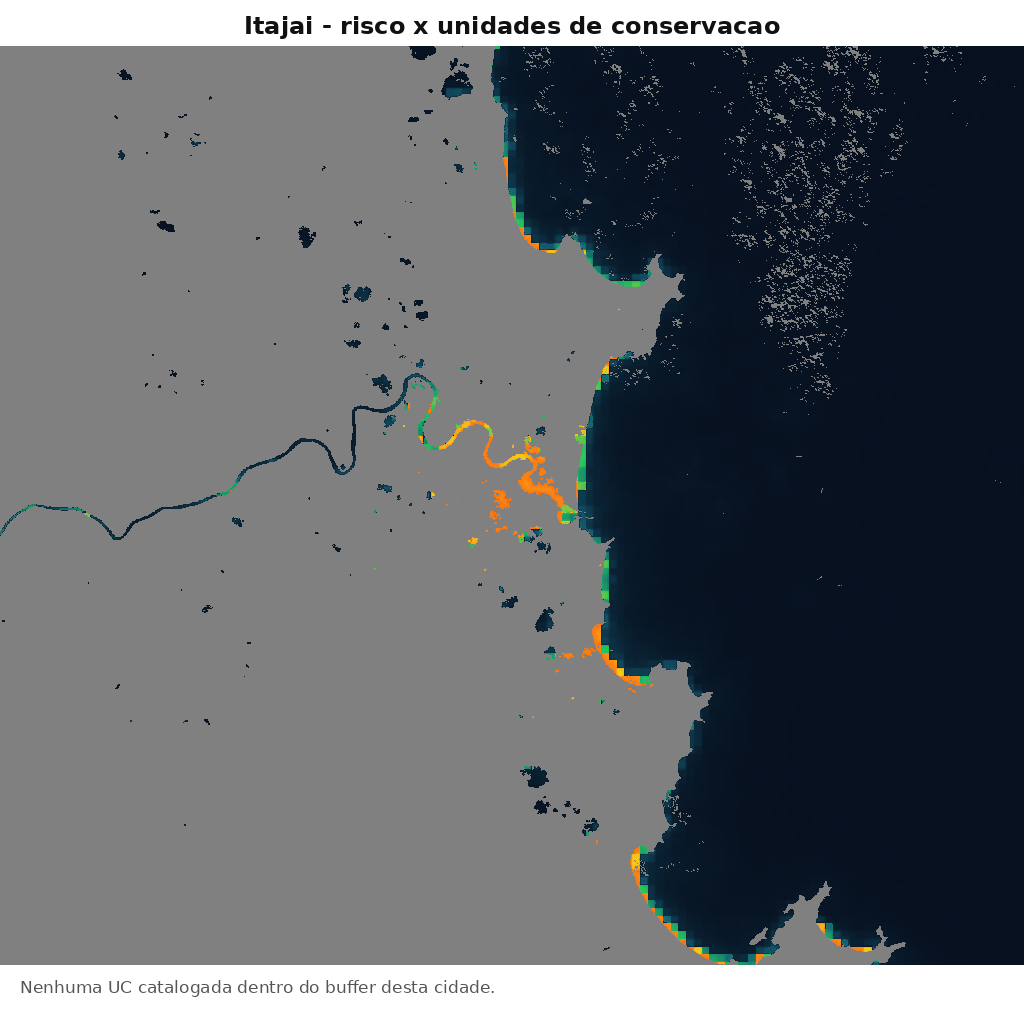
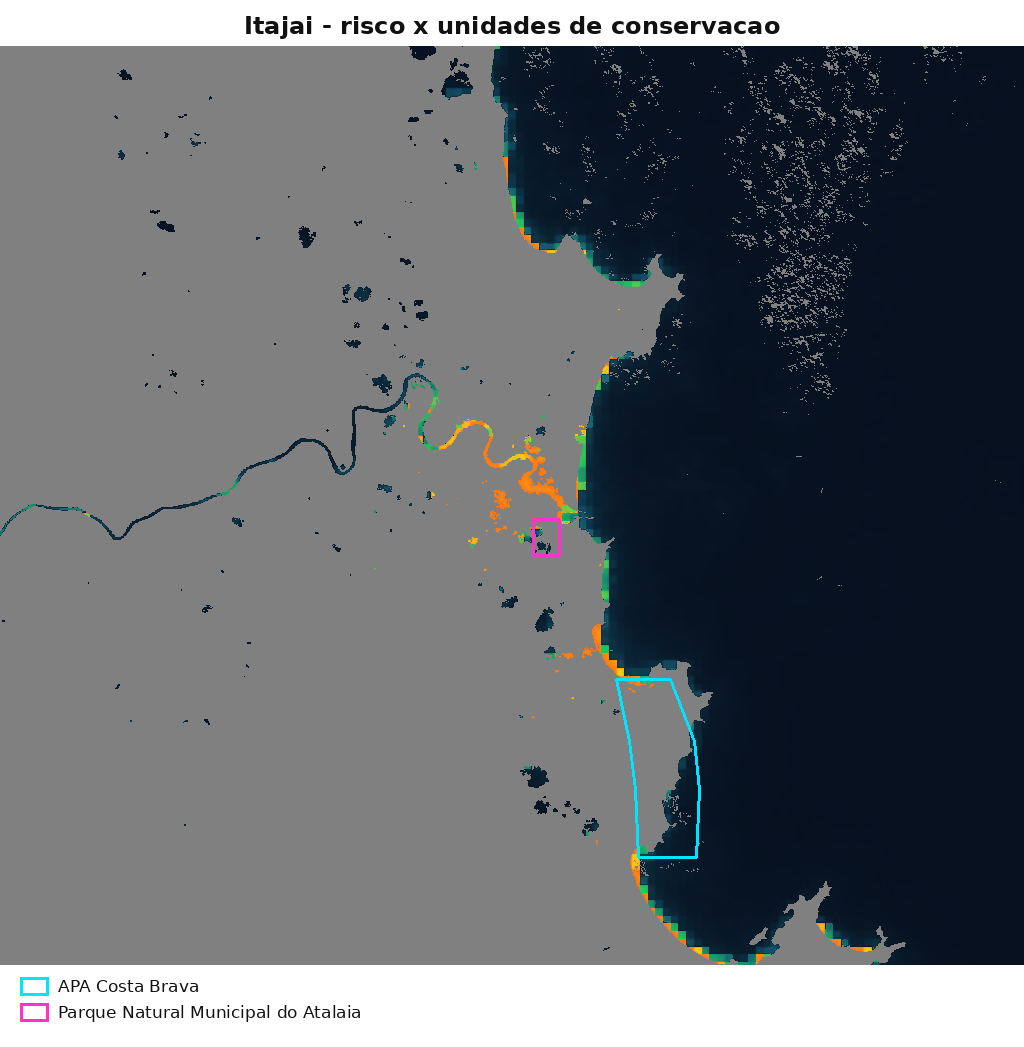
Adiciona UCs reais costeiras e usa centroide-no-buffer como criterio
Balneario Camboriu e Itajai ficavam sem UC apos passar a usar o recorte
circular. Agora inclui duas unidades de conservacao oficiais proximas:

- APA Costa Brava (BC, Lei municipal 1985/2000): faixa costeira das
  Interpraias, incluindo o mar adjacente.
- Parque Natural Municipal do Atalaia (Itajai, Decreto 2007): bairro
  Fazenda/Cabecudas, junto a foz do Itajai-Acu.

Troca o criterio de "fracao minima de area do buffer" por "centroide da UC
dentro do buffer circular de 27,5 km". Isso inclui UCs pequenas mas internas
(PNM Atalaia, ~19 ha) e exclui UCs externas que so roçam a borda (REBIO
Arvoredo, centro a ~34 km de BC). Relatorio da Prioridade 3 atualizado.

diff --git a/protected_areas_overlay.py b/protected_areas_overlay.py
@@ -66,6 +66,31 @@ PROTECTED_AREAS = [
             (-29.20, -47.80), (-29.20, -49.20),
         ],
     },
+    {
+        "name": "APA Costa Brava",
+        "code": "APA-COSTA-BRAVA",
+        "color": "#00e5ff",
+        # APA municipal de Balneario Camboriu (Lei 1985/2000): faixa costeira das
+        # Interpraias, de Ponta das Laranjeiras a Estaleirinho/Ponta do Malta,
+        # incluindo o mar adjacente. Praia do Estaleiro ~-27.03,-48.58.
+        "polygon": [
+            (-26.992, -48.605), (-27.022, -48.598), (-27.045, -48.595),
+            (-27.078, -48.593),
+            (-27.078, -48.562), (-27.045, -48.560), (-27.022, -48.563),
+            (-26.992, -48.576),
+        ],
+    },
+    {
+        "name": "Parque Natural Municipal do Atalaia",
+        "code": "PNM-ATALAIA",
+        "color": "#ff33cc",
+        # UC municipal de Itajai (Decreto, 2007), bairro Fazenda/Cabecudas, junto
+        # a foz do Itajai-Acu. Poligono aproximado (~19 ha na realidade).
+        "polygon": [
+            (-26.915, -48.650), (-26.915, -48.636),
+            (-26.932, -48.636), (-26.932, -48.650),
+        ],
+    },
 ]
 
 
@@ -101,10 +126,28 @@ def polygon_pixels(area, city, pixel_m, img_shape):
     ]
 
 
-# Fracao minima do buffer circular que uma UC precisa cobrir para ser mapeada.
-# Evita que uma UC apenas "roce" a borda do recorte (artefato de canto da imagem
-# quadrada) seja rotulada como dentro do buffer.
-MIN_OVERLAP_FRACTION = 0.01
+# Numero minimo de pixels de interseccao para uma UC ser desenhavel (evita
+# slivers de 1-2 pixels). O criterio principal de "dentro do buffer" e o
+# centroide da UC, nao a area: assim UCs pequenas mas internas (ex.: PNM Atalaia,
+# ~19 ha) entram, e UCs grandes mas externas que so roçam a borda (ex.: REBIO
+# Arvoredo) ficam de fora.
+MIN_OVERLAP_PX = 50
+
+
+def centroid_latlon(area):
+    """Centroide aproximado (media dos vertices) do poligono da UC."""
+    verts = area["polygon"]
+    lat = sum(v[0] for v in verts) / len(verts)
+    lon = sum(v[1] for v in verts) / len(verts)
+    return lat, lon
+
+
+def distance_m(lat1, lon1, lat2, lon2):
+    """Distancia equiretangular aproximada em metros entre dois pontos."""
+    m_per_deg_lon = EARTH_M_PER_DEG_LAT * math.cos(math.radians((lat1 + lat2) / 2.0))
+    dy = (lat1 - lat2) * EARTH_M_PER_DEG_LAT
+    dx = (lon1 - lon2) * m_per_deg_lon
+    return math.hypot(dx, dy)
 
 
 def polygon_to_mask(pixels, img_shape):
@@ -202,14 +245,15 @@ def generate_all_overlays(results):
         img_shape = result["mask"].shape
         pixel_m = result["pixel_m"]
         roi = circular_roi_mask(city, pixel_m, img_shape)
-        min_overlap = MIN_OVERLAP_FRACTION * float(roi.sum())
 
         intersecting = []
         for area in PROTECTED_AREAS:
             pixels = polygon_pixels(area, city, pixel_m, img_shape)
             mask = polygon_to_mask(pixels, img_shape)
-            overlap = float((mask & roi).sum())  # interseccao com o buffer circular
-            if overlap >= min_overlap:
+            overlap = int((mask & roi).sum())
+            clat, clon = centroid_latlon(area)
+            inside_buffer = distance_m(clat, clon, city["lat"], city["lon"]) <= city["buffer_m"]
+            if inside_buffer and overlap >= MIN_OVERLAP_PX:
                 intersecting.append((area, pixels))
 
         base = _risk_base_image(result)

diff --git a/ecological_risk_analysis.py b/ecological_risk_analysis.py
@@ -564,16 +564,24 @@ def write_priority3_report(results, fauna_source, protected_info):
         lines.append(f"| {result['city']['name']} | {ucs} |")
     lines.extend([
         "",
+        "### UCs catalogadas",
+        "",
+        "- **APA de Anhatomirim** (federal) - Baia Norte de Florianopolis.",
+        "- **APA Costa Brava** (municipal, Lei 1985/2000) - faixa costeira das",
+        "  Interpraias de Balneario Camboriu; dentro dos buffers de BC e Itajai.",
+        "- **Parque Natural Municipal do Atalaia** (municipal, Decreto 2007) -",
+        "  bairro Fazenda/Cabecudas, junto a foz do Itajai-Acu.",
+        "- **REBIO Marinha do Arvoredo** e **APA da Baleia Franca** permanecem",
+        "  catalogadas, mas seus centros ficam fora dos buffers de 27,5 km das tres",
+        "  cidades, entao nao sao mapeadas como internas.",
+        "",
         "### Observacoes",
         "",
-        "- A interseccao usa o recorte **circular** de 27,5 km (nao a imagem",
-        "  quadrada), e exige cobertura minima do buffer para evitar que uma UC",
-        "  apenas \"roce\" a borda seja mapeada.",
-        "- A REBIO Marinha do Arvoredo tem centro a ~34 km (Balneario Camboriu) e",
-        "  ~42 km (Itajai) dos centros urbanos: fica fora dos buffers circulares das",
-        "  tres cidades, por isso nao e mapeada como interna.",
-        "- A APA da Baleia Franca tem limite norte proximo de 28S, fora dos buffers",
-        "  das tres cidades analisadas.",
+        "- Uma UC e mapeada quando seu **centroide** esta dentro do recorte",
+        "  **circular** de 27,5 km da cidade (nao a imagem quadrada). Assim, UCs",
+        "  pequenas mas internas (ex.: PNM Atalaia, ~19 ha) entram, e UCs externas",
+        "  que so roçam a borda (ex.: REBIO Arvoredo, centro a ~34 km de BC) ficam",
+        "  de fora.",
         "- Os poligonos sao aproximacoes para visualizacao; para uso oficial,",
         "  importar os limites vetoriais do CNUC/MMA.",
         "",

diff --git a/Reports/relatorio_prioridade_3.md b/Reports/relatorio_prioridade_3.md
@@ -29,18 +29,26 @@ poligono intersecta o recorte de cada cidade:
 | Cidade | Unidades de conservacao no buffer |
 |---|---|
 | Florianopolis | APA de Anhatomirim |
-| Balneario Camboriu | nenhuma catalogada no buffer |
-| Itajai | nenhuma catalogada no buffer |
+| Balneario Camboriu | APA Costa Brava, Parque Natural Municipal do Atalaia |
+| Itajai | APA Costa Brava, Parque Natural Municipal do Atalaia |
+
+### UCs catalogadas
+
+- **APA de Anhatomirim** (federal) - Baia Norte de Florianopolis.
+- **APA Costa Brava** (municipal, Lei 1985/2000) - faixa costeira das
+  Interpraias de Balneario Camboriu; dentro dos buffers de BC e Itajai.
+- **Parque Natural Municipal do Atalaia** (municipal, Decreto 2007) -
+  bairro Fazenda/Cabecudas, junto a foz do Itajai-Acu.
+- **REBIO Marinha do Arvoredo** e **APA da Baleia Franca** permanecem
+  catalogadas, mas seus centros ficam fora dos buffers de 27,5 km das tres
+  cidades, entao nao sao mapeadas como internas.
 
 ### Observacoes
 
-- A interseccao usa o recorte **circular** de 27,5 km (nao a imagem
-  quadrada), e exige cobertura minima do buffer para evitar que uma UC
-  apenas "roce" a borda seja mapeada.
-- A REBIO Marinha do Arvoredo tem centro a ~34 km (Balneario Camboriu) e
-  ~42 km (Itajai) dos centros urbanos: fica fora dos buffers circulares das
-  tres cidades, por isso nao e mapeada como interna.
-- A APA da Baleia Franca tem limite norte proximo de 28S, fora dos buffers
-  das tres cidades analisadas.
+- Uma UC e mapeada quando seu **centroide** esta dentro do recorte
+  **circular** de 27,5 km da cidade (nao a imagem quadrada). Assim, UCs
+  pequenas mas internas (ex.: PNM Atalaia, ~19 ha) entram, e UCs externas
+  que so roçam a borda (ex.: REBIO Arvoredo, centro a ~34 km de BC) ficam
+  de fora.
 - Os poligonos sao aproximacoes para visualizacao; para uso oficial,
   importar os limites vetoriais do CNUC/MMA.